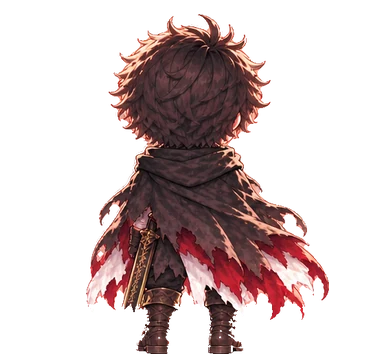
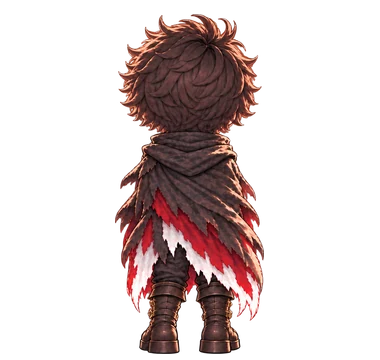
Explorers: the hero's revised mini statue, matched to Kaos (sword left off)
The author redrew the hero's four views (front, left, back, right) to
Kaos's revised proportions, without his sword for exploring. They replace
the first sheet on the same 380x360 canvas and ground line; the earlier
sheet's walk frames and the single right-facing pose are removed, as
their drawing no longer matches. Both explorers now stand in their own
drawing and step with the scene's bob until the walking drawings arrive.
The new-gust e2e check takes the first of a kind, since one may also
come on its own.

Claude-Session: https://claude.ai/code/session_01ECZrs1cydr2xwp55rvWdYK

Changed region(s): [[0.2026, 0.0306, 0.8684, 1.0]]

diff --git a/packages/mugen-core/content/characters/miniStatueSprites.ts b/packages/mugen-core/content/characters/miniStatueSprites.ts
@@ -6,38 +6,23 @@
 // delivered drafts onto one canvas per character: the same size, the same ground line, the figure the
 // same height in every frame, so nothing jumps when a frame changes or someone turns.
 //
-// Kaos is the revised four-view sheet (front, left, back, right — 作者 2026-10-18, redrawn to the
-// hero's proportions).
+// Both are the revised four-view sheets (front, left, back, right — 作者 2026-10-18): Kaos redrawn to
+// the hero's proportions, then the hero redrawn to match her (his sword left off for exploring).
 //
-// What was done to the delivered pixels, and nothing more (docs/EXPLORER_MINI_STATUE.md §3):
-//   - the hero's sheet had the soft glow, the sparkles and the gold ring at his feet painted in; those
-//     are taken out here (the game draws its own aura and ring, with states), the figure untouched;
+// What was done to the delivered pixels, and nothing more (docs/EXPLORER_MINI_STATUE.md §5):
+//   - each figure is cut out on its own (a neighbour's edge never comes with it), the faint pink rim the
+//     painting left around his hair taken off;
 //   - each figure is scaled to one height and set on the ground line, between its boots.
 // Nothing is mirrored: the hero's mark under his left eye and Kaos's two different wings would swap.
 //
-// WAITING ON ART — said here so it is not mistaken for a decision:
-//   - the hero facing right has one walking drawing (the delivered right-facing pose), not a cycle;
-//     he steps with it and the scene's bob;
-//   - Kaos has standing drawings only (front, left, back, right): she is moved with the bob, not
-//     animated. A walk cycle per direction drops in here and nothing else changes.
+// WAITING ON ART — said here so it is not mistaken for a decision: both have standing drawings only, and
+// are moved with the scene's bob (a little higher than with a cycle), not animated. The walking drawings
+// drop in as `walk` frames, on the same canvas, and nothing else changes.
 
 import heroBackIdle from '@mugen/assets/files/characters/hero/explore/hero-mini-back-idle.webp';
-import heroBackWalk1 from '@mugen/assets/files/characters/hero/explore/hero-mini-back-walk1.webp';
-import heroBackWalk2 from '@mugen/assets/files/characters/hero/explore/hero-mini-back-walk2.webp';
-import heroBackWalk3 from '@mugen/assets/files/characters/hero/explore/hero-mini-back-walk3.webp';
-import heroBackWalk4 from '@mugen/assets/files/characters/hero/explore/hero-mini-back-walk4.webp';
 import heroFrontIdle from '@mugen/assets/files/characters/hero/explore/hero-mini-front-idle.webp';
-import heroFrontWalk1 from '@mugen/assets/files/characters/hero/explore/hero-mini-front-walk1.webp';
-import heroFrontWalk2 from '@mugen/assets/files/characters/hero/explore/hero-mini-front-walk2.webp';
-import heroFrontWalk3 from '@mugen/assets/files/characters/hero/explore/hero-mini-front-walk3.webp';
-import heroFrontWalk4 from '@mugen/assets/files/characters/hero/explore/hero-mini-front-walk4.webp';
 import heroLeftIdle from '@mugen/assets/files/characters/hero/explore/hero-mini-left-idle.webp';
-import heroLeftWalk1 from '@mugen/assets/files/characters/hero/explore/hero-mini-left-walk1.webp';
-import heroLeftWalk2 from '@mugen/assets/files/characters/hero/explore/hero-mini-left-walk2.webp';
-import heroLeftWalk3 from '@mugen/assets/files/characters/hero/explore/hero-mini-left-walk3.webp';
-import heroLeftWalk4 from '@mugen/assets/files/characters/hero/explore/hero-mini-left-walk4.webp';
 import heroRightIdle from '@mugen/assets/files/characters/hero/explore/hero-mini-right-idle.webp';
-import heroRightWalk1 from '@mugen/assets/files/characters/hero/explore/hero-mini-right-walk1.webp';
 import kaosBackIdle from '@mugen/assets/files/characters/kaos/explore/kaos-mini-back-idle.webp';
 import kaosFrontIdle from '@mugen/assets/files/characters/kaos/explore/kaos-mini-front-idle.webp';
 import kaosLeftIdle from '@mugen/assets/files/characters/kaos/explore/kaos-mini-left-idle.webp';
@@ -59,20 +44,12 @@ export const MINI_STATUE_SPRITES: Record<ExplorationCharacterId, ExplorationSpri
     id: 'hero-mini',
     // His height, crown of the hair to sole, in every frame.
     referencePixels: 340,
+    // Standing drawings only for now (the walk is coming as its own drawings): he steps with the bob.
     frames: {
-      front: {
-        idle: hero(heroFrontIdle),
-        walk: [hero(heroFrontWalk1), hero(heroFrontWalk2), hero(heroFrontWalk3), hero(heroFrontWalk4)],
-      },
-      back: {
-        idle: hero(heroBackIdle),
-        walk: [hero(heroBackWalk1), hero(heroBackWalk2), hero(heroBackWalk3), hero(heroBackWalk4)],
-      },
-      left: {
-        idle: hero(heroLeftIdle),
-        walk: [hero(heroLeftWalk1), hero(heroLeftWalk2), hero(heroLeftWalk3), hero(heroLeftWalk4)],
-      },
-      right: { idle: hero(heroRightIdle), walk: [hero(heroRightWalk1)] },
+      front: { idle: hero(heroFrontIdle), walk: [] },
+      back: { idle: hero(heroBackIdle), walk: [] },
+      left: { idle: hero(heroLeftIdle), walk: [] },
+      right: { idle: hero(heroRightIdle), walk: [] },
     },
   },
   KAOS: {

diff --git a/packages/mugen-app/e2e/exploreDiscovery.spec.ts b/packages/mugen-app/e2e/exploreDiscovery.spec.ts
@@ -185,13 +185,15 @@ test.describe('the place moving on its own', () => {
     await settled(page);
     for (const k of ['DUST_LIGHT', 'STONE_DUST', 'DRAFT']) {
       await page.evaluate((k) => (window as unknown as { __mugenGust: (k: string) => void }).__mugenGust(k), k);
-      await expect(page.locator(`[data-gust="${k}"]`)).toBeAttached();
+      // (one may have come on its own as well)
+      await expect(page.locator(`[data-gust="${k}"]`).first()).toBeAttached();
     }
     await page.goto('/?preview=walk&place=GREENWOOD_FOREST');
     await settled(page);
     for (const k of ['SUNBEAM', 'LEAF_DRIFT', 'BUGS']) {
       await page.evaluate((k) => (window as unknown as { __mugenGust: (k: string) => void }).__mugenGust(k), k);
-      await expect(page.locator(`[data-gust="${k}"]`)).toBeAttached();
+      // (one may have come on its own as well)
+      await expect(page.locator(`[data-gust="${k}"]`).first()).toBeAttached();
     }
   });
 });

diff --git a/packages/mugen-core/content/characters/miniStatueSprites.test.ts b/packages/mugen-core/content/characters/miniStatueSprites.test.ts
@@ -47,10 +47,9 @@ describe('the explorers as mini statues', () => {
     });
   }
 
-  it('the hero walks with four frames front, back and left; facing right with the one drawing delivered', () => {
-    const f = MINI_STATUE_SPRITES.HERO.frames;
-    for (const d of ['front', 'back', 'left'] as const) expect(f[d].walk).toHaveLength(4);
-    expect(f.right.walk).toHaveLength(1);
+  it('standing drawings for now, both of them, one per direction — the walk comes as its own drawings', () => {
+    for (const id of ['HERO', 'KAOS'] as const)
+      for (const d of DIRECTIONS) expect(MINI_STATUE_SPRITES[id].frames[d].walk, `${id} ${d}`).toHaveLength(0);
   });
 
   it('her height leaves out the curl of hair above it (as before: a flourish, not her size)', () => {

diff --git a/docs/EXPLORER_MINI_STATUE.md b/docs/EXPLORER_MINI_STATUE.md
@@ -73,7 +73,7 @@
 ## 4. 制作順
 
 1. 共通ルールの基準化 — この文書と §2（ゲーム側の補助）。済み
-2. 主人公のミニスタチュー — 差し替え済み（§5）。右向きの歩き（3枚以上）を待つ
+2. 主人公のミニスタチュー — ケイオスに合わせた4面図（剣なし）に差し替え済み（§5）。4方向の歩きのコマを待つ
 3. ケイオスのミニスタチュー — 差し替え済み（§5）。4方向の歩きのコマを待つ
 4. 他のキャラへ展開（グレイヴなどが探索に加わる時に、同じ規格で）
 
@@ -97,8 +97,7 @@
 
 | キャラ | 向き | コマ |
 |---|---|---|
-| 主人公 | 前・後ろ・左 | 立ち1＋歩き4（シートの上段・2段目・3段目の左4枚） |
-| 主人公 | 右 | 立ち1（上段右端）＋歩き1（追加でいただいた右向き1枚）。歩く時は、この1枚で少し大きく上下させる |
+| 主人公 | 前・左・後ろ・右 | 立ち1ずつ（ケイオスに合わせて描き直していただいた4面図・剣を消した版、2026-10-18）。歩きのコマは別に用意中なので、今は立ちの絵を少し大きく上下させる |
 | ケイオス | 前・左・後ろ・右 | 立ち1ずつ（主人公に合わせて頭身を直していただいた4面図、2026-10-18）。歩きのコマが無いので、歩く時は立ちの絵を少し大きく上下させる |
 
 - 大きさの比率（主人公：画面の高さの0.4、ケイオス：0.376）と遠近スケールは今までどおり。
@@ -109,7 +108,7 @@
 
 ### 届けばそのまま良くなるもの
 
-- 主人公の右向きの歩き（3枚以上）。
+- 主人公の4方向の歩き（別に用意していただいている絵）。
 - ケイオスの4方向の歩き（各3枚以上）。
 
 同じ枠・同じ接地点で届けば、`miniStatueSprites.ts` にコマを足すだけで済む。
@@ -124,4 +123,16 @@
 - 向き：
   - 左向きは黒い翼が手前、右向きは白い翼が手前。
   - 金と青の瞳は左右で描き分けてあり、反転ではない。
+
+### 主人公修正版（ケイオスに合わせた4面図・剣を消した版、2026-10-18）
+
+- 前・左・後ろ・右の4枚とも背景透過で、足元の輪や外光の焼き込みも無い。
+  - 髪の輪郭に残る薄い赤みだけ、前回と同じ方法で取った。
+- ケイオス修正版と同じ画面の大きさで並べると、頭身・マントの広がり・並んだ時の高さがそろう。
+  - 主人公の頭頂〜足は、ケイオスより少し高い（ケイオスは主人公の94%。今までどおり）。
+- 前の案（10/17のシート）の歩き4コマと、右向きの1枚は外した。
+  - 絵柄が変わったため、混ぜると別人に見える。
+  - ファイルも消した。
+- 歩きは、別に用意していただいている絵が届いたら差し替える。
+  - 同じ枠・同じ接地点に置けば、`miniStatueSprites.ts` の `walk` に足すだけで済む。
 
